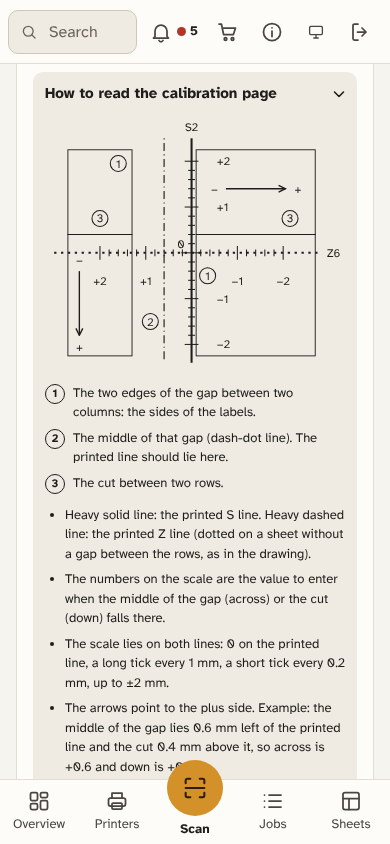
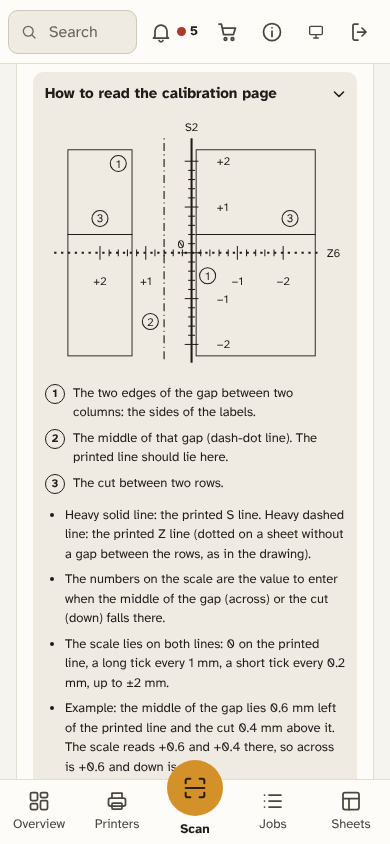
fix(calibration): the reading guide takes signs only from the scale
The arrows and their plus/minus marks are gone, and with them the legend
sentence that named a plus side: the scale numbers are the only sign in the
figure, so the drawing no longer contradicts itself. The legend example now
reads the example values off the scale.

Refs #337

Changed region(s): [[0.1538, 0.8318, 0.8615, 0.9242], [0.1846, 0.3081, 0.2154, 0.4005], [0.7077, 0.2156, 0.7385, 0.2464]]

diff --git a/frontend/src/features/calibration/guide/CrossingFigure.tsx b/frontend/src/features/calibration/guide/CrossingFigure.tsx
@@ -1,8 +1,6 @@
 // SPDX-FileCopyrightText: 2026 Björn Strausmann and Labelyard contributors
 // SPDX-License-Identifier: AGPL-3.0-or-later
 
-import { useId } from "react";
-
 /**
  * Figure 1 of the reading guide: one crossing of the calibration page, drawn the way it looks on paper.
  * Black only (`currentColor`); the lines are told apart by style and number, never by colour. The drawing
@@ -17,24 +15,17 @@ import { useId } from "react";
  * of it, so the left side is + and the right side −; likewise the top is + and the bottom −. The Z line is
  * dotted because the drawn sheet has no gap between its rows, as the printed page does.
  *
+ * The scale numbers are the only sign in the drawing: no arrow or mark states a plus side.
+ *
  * Without `title` the drawing has no role and no name: the website page sets its own, localised ones.
  */
-export function CrossingFigure({ title, idPrefix }: { title?: string; idPrefix?: string }) {
-  const generated = useId().replace(/[^A-Za-z0-9_-]/g, "");
-  const prefix = idPrefix ?? `crossing-${generated}`;
-  const arrow = `${prefix}-arrow`;
+export function CrossingFigure({ title }: { title?: string; /** Accepted for symmetry with the export; this drawing has no ids. */ idPrefix?: string }) {
   const ticks = Array.from({ length: 21 }, (_, i) => i - 10);
   const half = (k: number) => (k === 0 ? 9 : k % 5 === 0 ? 6 : 3);
   const a11y = title ? ({ role: "img", "aria-label": title } as const) : {};
 
   return (
     <svg xmlns="http://www.w3.org/2000/svg" viewBox="-8 -16 262 220" {...a11y}>
-      <defs>
-        <marker id={arrow} viewBox="0 0 8 8" refX="7" refY="4" markerWidth="8" markerHeight="8" markerUnits="userSpaceOnUse" orient="auto">
-          <path d="M1 1L7 4L1 7" fill="none" stroke="currentColor" strokeWidth="1.2" />
-        </marker>
-      </defs>
-
       {/* The labels: their outlines are the edges of the gap (1) and the cut (3). */}
       <g fill="none" stroke="currentColor" strokeWidth="0.8">
         <rect x="12" y="10" width="56" height="74" />
@@ -57,12 +48,6 @@ export function CrossingFigure({ title, idPrefix }: { title?: string; idPrefix?:
             <line x1={120 - half(k)} x2={120 + half(k)} y1={100 + 8 * k} y2={100 + 8 * k} />
           </g>
         ))}
-      </g>
-
-      {/* The arrows "across" and "down", with their plus side. */}
-      <g fill="none" stroke="currentColor" strokeWidth="1.2">
-        <line x1="150" x2="202" y1="44" y2="44" markerEnd={`url(#${arrow})`} />
-        <line x1="22" x2="22" y1="116" y2="172" markerEnd={`url(#${arrow})`} />
       </g>
 
       {/* The callouts 1 to 3 (edges of the gap, middle of the gap, the cut). */}
@@ -98,10 +83,6 @@ export function CrossingFigure({ title, idPrefix }: { title?: string; idPrefix?:
         <text x="142" y="143.5" textAnchor="start">−1</text>
         <text x="142" y="183.5" textAnchor="start">−2</text>
         <text x="114" y="96" textAnchor="end">0</text>
-        <text x="140" y="48">−</text>
-        <text x="213" y="48">+</text>
-        <text x="22" y="110">−</text>
-        <text x="22" y="186">+</text>
       </g>
     </svg>
   );

diff --git a/frontend/src/features/calibration/guide/ReadingGuide.test.tsx b/frontend/src/features/calibration/guide/ReadingGuide.test.tsx
@@ -123,7 +123,6 @@ describe("the reading guide", () => {
     // The guide's own panel ids are not part of the figures; the figures' ids must be unique among all.
     expect(new Set(ids).size).toBe(ids.length);
     const figureIds = [...container.querySelectorAll("svg [id]")].map((e) => e.id);
-    expect(figureIds.length).toBeGreaterThan(0);
     for (const id of figureIds) expect(id).toMatch(/^[A-Za-z0-9_-]+$/);
   });
 });
@@ -160,6 +159,14 @@ describe("the crossing figure's scale labels are the value to enter", () => {
     // value to enter = - position on the scale (the position is the offset of the gap middle from the printed line).
     for (const l of across) expect(num(l.text)).toBe(-(l.x - 120) / 40);
     for (const l of down) expect(num(l.text)).toBe(-(l.y - 3.5 - 100) / 40);
+  });
+
+  it("no element of the figure states a sign except the scale labels", () => {
+    const { container } = render(<CrossingFigure />);
+    const signed = labels(container).filter((l) => /[+−]/.test(l.text));
+    expect(signed).toHaveLength(8);
+    for (const l of signed) expect(l.y === 128 || l.x === 142).toBe(true);
+    expect(container.querySelector("marker")).toBeNull();
   });
 
   it("the legend says the numbers are the value to enter", async () => {

diff --git a/frontend/src/features/calibration/guide/ReadingGuide.tsx b/frontend/src/features/calibration/guide/ReadingGuide.tsx
@@ -72,7 +72,7 @@ export function ReadingGuide({ type }: { type?: { geometry: { cols: number; rows
                   <li>{t`Heavy solid line: the printed S line. Heavy dashed line: the printed Z line (dotted on a sheet without a gap between the rows, as in the drawing).`}</li>
                   <li>{t`The numbers on the scale are the value to enter when the middle of the gap (across) or the cut (down) falls there.`}</li>
                   <li>{t`The scale lies on both lines: 0 on the printed line, a long tick every 1 mm, a short tick every 0.2 mm, up to ±2 mm.`}</li>
-                  <li>{t`The arrows point to the plus side. Example: the middle of the gap lies 0.6 mm left of the printed line and the cut 0.4 mm above it, so across is +0.6 and down is +0.4.`}</li>
+                  <li>{t`Example: the middle of the gap lies 0.6 mm left of the printed line and the cut 0.4 mm above it. The scale reads +0.6 and +0.4 there, so across is +0.6 and down is +0.4.`}</li>
                 </ul>
               </>
             }
